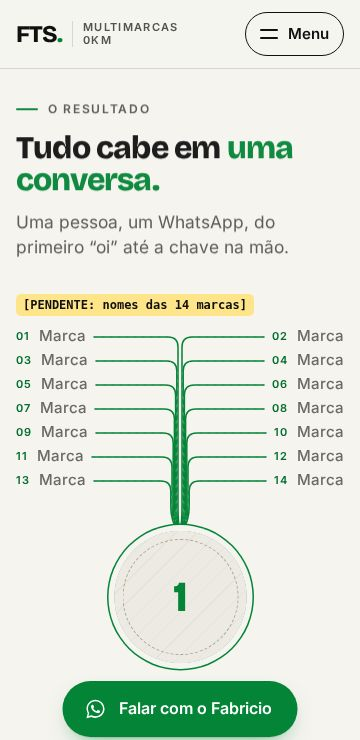
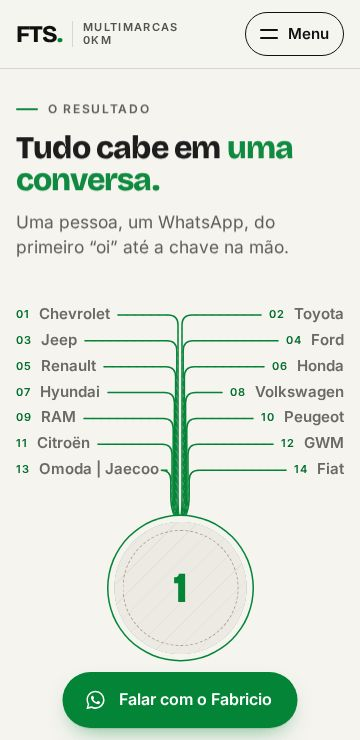
Site FTS: dados confirmados do Fabricio
- WhatsApp, e-mail e Instagram reais em todos os links e no schema
- +20 anos de atuação, 14 marcas (Omoda | Jaecoo como uma, a confirmar)
- Atendimento 'vou até você', entrega na concessionária, usado na troca
- Linhas da assinatura saem alinhadas no desktop
- Pendências e notas atualizadas no README

Claude-Session: https://claude.ai/code/session_01GiJ2UYo2WCLZq6syNtJtXF

Changed region(s): [[0.0306, 0.373, 0.9778, 1.0], [0.4583, 0.777, 0.5194, 0.8392]]

diff --git a/fts-multimarcas/index.html b/fts-multimarcas/index.html
@@ -52,7 +52,9 @@
         { "@type": "City", "name": "Fundão" }, { "@type": "City", "name": "João Neiva" },
         { "@type": "City", "name": "Ibiraçu" }, { "@type": "City", "name": "Vitória" }
       ],
-      "sameAs": ["https://www.instagram.com/fts.multimarcas0km/"],
+      "telephone": "+55-27-99849-0805",
+      "email": "ftsfabricioteixeira@gmail.com",
+      "sameAs": ["https://www.instagram.com/fabricioteixeiradesouza/"],
       "employee": { "@id": "https://SEU-DOMINIO.com.br/#fabricio" }
     },
     {
@@ -580,7 +582,7 @@ button{font:inherit;color:inherit}
       <a href="#marcas">Marcas e região</a>
       <a href="#duvidas">Dúvidas</a>
     </nav>
-    <a class="btn topo-cta" data-wa="encontrar" data-cta href="https://wa.me/?text=Ol%C3%A1%2C%20Fabricio!%20Vim%20pelo%20site%20e%20quero%20encontrar%20meu%20pr%C3%B3ximo%20carro.">
+    <a class="btn topo-cta" data-wa="encontrar" data-cta href="https://wa.me/5527998490805?text=Ol%C3%A1%2C%20Fabricio!%20Vim%20pelo%20site%20e%20quero%20encontrar%20meu%20pr%C3%B3ximo%20carro.">
       <svg class="ic" aria-hidden="true"><use href="#i-wa"/></svg>Falar no WhatsApp
     </a>
     <button class="menu-bt" type="button" aria-expanded="false" aria-controls="menu"><span class="linhas" aria-hidden="true"></span><span class="menu-bt-tx">Menu</span></button>
@@ -597,7 +599,7 @@ button{font:inherit;color:inherit}
     <li><a href="#duvidas">Dúvidas</a></li>
   </ol>
   <div class="menu-rodape">
-    <a class="btn" data-wa="encontrar" href="https://wa.me/?text=Ol%C3%A1%2C%20Fabricio!%20Vim%20pelo%20site%20e%20quero%20encontrar%20meu%20pr%C3%B3ximo%20carro."><svg class="ic" aria-hidden="true"><use href="#i-wa"/></svg>Quero encontrar meu próximo carro</a>
+    <a class="btn" data-wa="encontrar" href="https://wa.me/5527998490805?text=Ol%C3%A1%2C%20Fabricio!%20Vim%20pelo%20site%20e%20quero%20encontrar%20meu%20pr%C3%B3ximo%20carro."><svg class="ic" aria-hidden="true"><use href="#i-wa"/></svg>Quero encontrar meu próximo carro</a>
     <p>Aracruz, Piúma, Fundão, João Neiva, Ibiraçu, Vitória e entorno<span data-atendimento></span></p>
   </div>
 </div>
@@ -614,14 +616,14 @@ button{font:inherit;color:inherit}
     <div class="hero-texto">
       <p class="rotulo hero-eyebrow hero-entra" style="--d:.2s">Carros 0 km · 14 marcas · Aracruz-ES</p>
       <h1 id="h1" class="hero-title">Seu próximo carro, <span class="fim">sem rodar concessionária.</span></h1>
-      <p class="hero-sub hero-entra" style="--d:.5s">Eu sou o Fabricio. Pesquiso o seu carro entre <strong>14 marcas de 0 km</strong> e cuido da compra do começo ao fim. Você fala com uma pessoa só.</p>
+      <p class="hero-sub hero-entra" style="--d:.5s">Eu sou o Fabricio. Pesquiso o seu carro entre <strong>14 marcas de 0 km</strong> e cuido da compra do começo ao fim. Você fala com uma pessoa só, e eu vou até você.</p>
       <div class="hero-acoes hero-entra" style="--d:.6s">
-        <a class="btn" data-wa="encontrar" data-cta href="https://wa.me/?text=Ol%C3%A1%2C%20Fabricio!%20Vim%20pelo%20site%20e%20quero%20encontrar%20meu%20pr%C3%B3ximo%20carro.">
+        <a class="btn" data-wa="encontrar" data-cta href="https://wa.me/5527998490805?text=Ol%C3%A1%2C%20Fabricio!%20Vim%20pelo%20site%20e%20quero%20encontrar%20meu%20pr%C3%B3ximo%20carro.">
           <svg class="ic" aria-hidden="true"><use href="#i-wa"/></svg>Quero encontrar meu próximo carro
         </a>
-        <a class="link-seta" data-wa="condicoes" data-cta href="https://wa.me/?text=Ol%C3%A1%2C%20Fabricio!%20Vim%20pelo%20site%20e%20quero%20saber%20as%20condi%C3%A7%C3%B5es%20para%20um%20carro%200%20km.">Quero saber as condições</a>
+        <a class="link-seta" data-wa="condicoes" data-cta href="https://wa.me/5527998490805?text=Ol%C3%A1%2C%20Fabricio!%20Vim%20pelo%20site%20e%20quero%20saber%20as%20condi%C3%A7%C3%B5es%20para%20um%20carro%200%20km.">Quero saber as condições</a>
       </div>
-      <p class="hero-rodape hero-entra" style="--d:.7s"><span>+1.200 carros entregues</span><span>Aracruz e região</span><span>Também alguns seminovos</span></p>
+      <p class="hero-rodape hero-entra" style="--d:.7s"><span>+1.200 carros entregues</span><span>+20 anos de atuação</span><span>Eu vou até você</span></p>
     </div>
   </div>
 </section>
@@ -636,7 +638,7 @@ button{font:inherit;color:inherit}
     <div class="stats" data-stats>
       <div class="stat stat--destaque rv"><p class="stat-num"><span class="mais">+</span>1.200</p><p class="stat-rot">carros entregues</p></div>
       <div class="stat rv"><p class="stat-num">14</p><p class="stat-rot">marcas de 0 km</p></div>
-      <div class="stat rv"><p class="stat-num"><span class="mais">+</span>10<small>anos</small></p><p class="stat-rot">de atuação <span class="pend">[PENDENTE: confirmar]</span></p></div>
+      <div class="stat rv"><p class="stat-num"><span class="mais">+</span>20<small>anos</small></p><p class="stat-rot">de atuação</p></div>
       <div class="stat rv"><p class="stat-num"><span class="mais">+</span>15<small>anos</small></p><p class="stat-rot">de clientes que compram comigo <span class="pend">[PENDENTE: confirmar]</span></p></div>
     </div>
   </div>
@@ -650,14 +652,14 @@ button{font:inherit;color:inherit}
       <p class="lead">Toque no tipo de carro. O WhatsApp abre com a mensagem pronta — é só enviar.</p>
     </div>
     <ul class="cats" data-cats>
-      <li class="cat-li" style="display:contents"><a class="cat" data-wa="encontrar" data-cat="SUV" href="https://wa.me/?text=Ol%C3%A1%2C%20Fabricio!%20Vim%20pelo%20site%20e%20quero%20encontrar%20meu%20pr%C3%B3ximo%20carro.%20Estou%20procurando%20um%20SUV."><span class="cat-n">01</span><span class="cat-nome">SUV</span><span class="cat-acao">Falar sobre SUV<svg aria-hidden="true"><use href="#i-seta"/></svg></span></a></li>
-      <li style="display:contents"><a class="cat" data-wa="encontrar" data-cat="Picape" href="https://wa.me/?text=Ol%C3%A1%2C%20Fabricio!%20Vim%20pelo%20site%20e%20quero%20encontrar%20meu%20pr%C3%B3ximo%20carro.%20Estou%20procurando%20uma%20picape."><span class="cat-n">02</span><span class="cat-nome">Picape</span><span class="cat-acao">Falar sobre picape<svg aria-hidden="true"><use href="#i-seta"/></svg></span></a></li>
-      <li style="display:contents"><a class="cat" data-wa="encontrar" data-cat="Sedã" href="https://wa.me/?text=Ol%C3%A1%2C%20Fabricio!%20Vim%20pelo%20site%20e%20quero%20encontrar%20meu%20pr%C3%B3ximo%20carro.%20Estou%20procurando%20um%20sed%C3%A3."><span class="cat-n">03</span><span class="cat-nome">Sedã</span><span class="cat-acao">Falar sobre sedã<svg aria-hidden="true"><use href="#i-seta"/></svg></span></a></li>
-      <li style="display:contents"><a class="cat" data-wa="encontrar" data-cat="Hatch" href="https://wa.me/?text=Ol%C3%A1%2C%20Fabricio!%20Vim%20pelo%20site%20e%20quero%20encontrar%20meu%20pr%C3%B3ximo%20carro.%20Estou%20procurando%20um%20hatch."><span class="cat-n">04</span><span class="cat-nome">Hatch</span><span class="cat-acao">Falar sobre hatch<svg aria-hidden="true"><use href="#i-seta"/></svg></span></a></li>
-      <li style="display:contents"><a class="cat" data-wa="encontrar" data-cat="Elétrico/Híbrido" href="https://wa.me/?text=Ol%C3%A1%2C%20Fabricio!%20Vim%20pelo%20site%20e%20quero%20encontrar%20meu%20pr%C3%B3ximo%20carro.%20Estou%20procurando%20um%20el%C3%A9trico%20ou%20h%C3%ADbrido."><span class="cat-n">05</span><span class="cat-nome">Elétrico<br>ou híbrido</span><span class="cat-acao">Falar sobre elétricos<svg aria-hidden="true"><use href="#i-seta"/></svg></span></a></li>
-      <li style="display:contents" data-servico="frotas"><a class="cat cat--escura" data-wa="frota" data-cat="Empresas" href="https://wa.me/?text=Ol%C3%A1%2C%20Fabricio!%20Vim%20pelo%20site%20e%20quero%20falar%20sobre%20a%20frota%20da%20minha%20empresa."><span class="cat-n">06</span><span class="cat-nome">Empresas</span><span class="cat-acao">Falar sobre minha frota<svg aria-hidden="true"><use href="#i-seta"/></svg></span><span class="pend" data-pend-servico>[PENDENTE: confirmar]</span></a></li>
+      <li class="cat-li" style="display:contents"><a class="cat" data-wa="encontrar" data-cat="SUV" href="https://wa.me/5527998490805?text=Ol%C3%A1%2C%20Fabricio!%20Vim%20pelo%20site%20e%20quero%20encontrar%20meu%20pr%C3%B3ximo%20carro.%20Estou%20procurando%20um%20SUV."><span class="cat-n">01</span><span class="cat-nome">SUV</span><span class="cat-acao">Falar sobre SUV<svg aria-hidden="true"><use href="#i-seta"/></svg></span></a></li>
+      <li style="display:contents"><a class="cat" data-wa="encontrar" data-cat="Picape" href="https://wa.me/5527998490805?text=Ol%C3%A1%2C%20Fabricio!%20Vim%20pelo%20site%20e%20quero%20encontrar%20meu%20pr%C3%B3ximo%20carro.%20Estou%20procurando%20uma%20picape."><span class="cat-n">02</span><span class="cat-nome">Picape</span><span class="cat-acao">Falar sobre picape<svg aria-hidden="true"><use href="#i-seta"/></svg></span></a></li>
+      <li style="display:contents"><a class="cat" data-wa="encontrar" data-cat="Sedã" href="https://wa.me/5527998490805?text=Ol%C3%A1%2C%20Fabricio!%20Vim%20pelo%20site%20e%20quero%20encontrar%20meu%20pr%C3%B3ximo%20carro.%20Estou%20procurando%20um%20sed%C3%A3."><span class="cat-n">03</span><span class="cat-nome">Sedã</span><span class="cat-acao">Falar sobre sedã<svg aria-hidden="true"><use href="#i-seta"/></svg></span></a></li>
+      <li style="display:contents"><a class="cat" data-wa="encontrar" data-cat="Hatch" href="https://wa.me/5527998490805?text=Ol%C3%A1%2C%20Fabricio!%20Vim%20pelo%20site%20e%20quero%20encontrar%20meu%20pr%C3%B3ximo%20carro.%20Estou%20procurando%20um%20hatch."><span class="cat-n">04</span><span class="cat-nome">Hatch</span><span class="cat-acao">Falar sobre hatch<svg aria-hidden="true"><use href="#i-seta"/></svg></span></a></li>
+      <li style="display:contents"><a class="cat" data-wa="encontrar" data-cat="Elétrico/Híbrido" href="https://wa.me/5527998490805?text=Ol%C3%A1%2C%20Fabricio!%20Vim%20pelo%20site%20e%20quero%20encontrar%20meu%20pr%C3%B3ximo%20carro.%20Estou%20procurando%20um%20el%C3%A9trico%20ou%20h%C3%ADbrido."><span class="cat-n">05</span><span class="cat-nome">Elétrico<br>ou híbrido</span><span class="cat-acao">Falar sobre elétricos<svg aria-hidden="true"><use href="#i-seta"/></svg></span></a></li>
+      <li style="display:contents" data-servico="frotas"><a class="cat cat--escura" data-wa="frota" data-cat="Empresas" href="https://wa.me/5527998490805?text=Ol%C3%A1%2C%20Fabricio!%20Vim%20pelo%20site%20e%20quero%20falar%20sobre%20a%20frota%20da%20minha%20empresa."><span class="cat-n">06</span><span class="cat-nome">Empresas</span><span class="cat-acao">Falar sobre minha frota<svg aria-hidden="true"><use href="#i-seta"/></svg></span><span class="pend" data-pend-servico>[PENDENTE: confirmar]</span></a></li>
     </ul>
-    <p class="cats-dica rv"><span aria-hidden="true">↔</span> Não sabe ainda? <a class="link-seta" data-wa="encontrar" data-sem-cat href="https://wa.me/?text=Ol%C3%A1%2C%20Fabricio!%20Vim%20pelo%20site%20e%20quero%20encontrar%20meu%20pr%C3%B3ximo%20carro.">Me conta o seu uso</a></p>
+    <p class="cats-dica rv"><span aria-hidden="true">↔</span> Não sabe ainda? <a class="link-seta" data-wa="encontrar" data-sem-cat href="https://wa.me/5527998490805?text=Ol%C3%A1%2C%20Fabricio!%20Vim%20pelo%20site%20e%20quero%20encontrar%20meu%20pr%C3%B3ximo%20carro.">Me conta o seu uso</a></p>
   </div>
 </section>
 
@@ -690,7 +692,7 @@ button{font:inherit;color:inherit}
           <figure class="foto vazia" data-foto="retrato" aria-hidden="true"></figure>
           <span class="cv-mono" aria-hidden="true">1</span>
         </div>
-        <a class="btn" data-wa="encontrar" data-cta href="https://wa.me/?text=Ol%C3%A1%2C%20Fabricio!%20Vim%20pelo%20site%20e%20quero%20encontrar%20meu%20pr%C3%B3ximo%20carro."><svg class="ic" aria-hidden="true"><use href="#i-wa"/></svg>Falar com o Fabricio</a>
+        <a class="btn" data-wa="encontrar" data-cta href="https://wa.me/5527998490805?text=Ol%C3%A1%2C%20Fabricio!%20Vim%20pelo%20site%20e%20quero%20encontrar%20meu%20pr%C3%B3ximo%20carro."><svg class="ic" aria-hidden="true"><use href="#i-wa"/></svg>Falar com o Fabricio</a>
         <p class="cv-no-tx">Mensagem pronta. É só enviar.</p>
       </div>
       <p class="cv-pend" data-pend-only data-pend-marcas><span class="pend">[PENDENTE: nomes das 14 marcas]</span></p>
@@ -709,9 +711,9 @@ button{font:inherit;color:inherit}
     </div>
     <ol class="passos rv">
       <li class="passo"><h3>Você me conta o que procura</h3><p>Pelo WhatsApp: tipo de carro, uso, orçamento, se tem usado para trocar.</p></li>
-      <li class="passo"><h3>Eu pesquiso entre as 14 marcas</h3><p>Comparo modelos e condições para o seu caso, sem você rodar concessionária.</p><span class="pend" data-pend-como>[PENDENTE: como o Fabricio consegue o carro e as condições]</span></li>
+      <li class="passo"><h3>Eu pesquiso entre as 14 marcas</h3><p>Comparo modelos e condições para o seu caso, sem você rodar concessionária.</p><span data-pend-como hidden></span></li>
       <li class="passo"><h3>Você escolhe com calma</h3><p>Recebe as opções e decide com quem conhece todas as marcas do seu lado.</p></li>
-      <li class="passo"><h3>Seu 0 km chega até você</h3><p>Eu acompanho a compra até a entrega.</p><span class="pend">[PENDENTE: etapas reais — documentação, financiamento, local da entrega]</span></li>
+      <li class="passo"><h3>Eu te levo para buscar</h3><p>A entrega é na concessionária da marca. Eu te busco e te levo até lá.</p></li>
     </ol>
   </div>
 </section>
@@ -753,19 +755,19 @@ button{font:inherit;color:inherit}
       <p class="rotulo rv">Quem cuida da sua compra</p>
       <h2 id="t-quem" class="rv" style="margin-top:14px">Prazer, Fabricio Teixeira.</h2>
       <div class="quem-corpo rv">
-        <p>Sou consultor de carros 0 km de 14 marcas, aqui em Aracruz. Também trabalho com alguns seminovos.</p>
+        <p>Sou consultor de carros 0 km de 14 marcas, aqui em Aracruz, há mais de 20 anos. Também trabalho com alguns seminovos.</p>
         <p>Em vez de você conversar com um vendedor por concessionária, conversa comigo. Eu encontro, comparo e cuido de tudo até o carro chegar.</p>
         <p data-bio><span class="pend">[PENDENTE: 2–3 frases do Fabricio sobre a própria história, com as palavras dele]</span></p>
       </div>
       <dl class="quem-fatos rv">
         <div><dt>Carros entregues</dt><dd>+1.200</dd></div>
         <div><dt>Marcas</dt><dd>14</dd></div>
-        <div><dt>Base</dt><dd>Aracruz-ES</dd></div>
-        <div><dt>Empresa</dt><dd>CNPJ ativo desde 2018</dd></div>
+        <div><dt>Atuação</dt><dd>+20 anos</dd></div>
+        <div><dt>Atendimento</dt><dd>Vou até você</dd></div>
       </dl>
       <div class="quem-acoes rv">
-        <a class="btn btn--escuro" data-wa="encontrar" data-cta href="https://wa.me/?text=Ol%C3%A1%2C%20Fabricio!%20Vim%20pelo%20site%20e%20quero%20encontrar%20meu%20pr%C3%B3ximo%20carro."><svg class="ic" aria-hidden="true"><use href="#i-wa"/></svg>Falar com o Fabricio</a>
-        <a class="link-seta" data-instagram href="https://www.instagram.com/fts.multimarcas0km/" rel="noopener" target="_blank">@fts.multimarcas0km</a>
+        <a class="btn btn--escuro" data-wa="encontrar" data-cta href="https://wa.me/5527998490805?text=Ol%C3%A1%2C%20Fabricio!%20Vim%20pelo%20site%20e%20quero%20encontrar%20meu%20pr%C3%B3ximo%20carro."><svg class="ic" aria-hidden="true"><use href="#i-wa"/></svg>Falar com o Fabricio</a>
+        <a class="link-seta" data-instagram href="https://www.instagram.com/fabricioteixeiradesouza/" rel="noopener" target="_blank">@fabricioteixeiradesouza</a>
       </div>
     </div>
   </div>
@@ -803,7 +805,7 @@ button{font:inherit;color:inherit}
     <h2 id="t-empresas" class="rv">Renovar a frota, com uma pessoa só.</h2>
     <div class="empresas-tx rv">
       <p>Carros de marcas diferentes para a sua empresa, organizados por um único consultor.</p>
-      <a class="btn" data-wa="frota" data-cta href="https://wa.me/?text=Ol%C3%A1%2C%20Fabricio!%20Vim%20pelo%20site%20e%20quero%20falar%20sobre%20a%20frota%20da%20minha%20empresa."><svg class="ic" aria-hidden="true"><use href="#i-wa"/></svg>Falar sobre minha frota</a>
+      <a class="btn" data-wa="frota" data-cta href="https://wa.me/5527998490805?text=Ol%C3%A1%2C%20Fabricio!%20Vim%20pelo%20site%20e%20quero%20falar%20sobre%20a%20frota%20da%20minha%20empresa."><svg class="ic" aria-hidden="true"><use href="#i-wa"/></svg>Falar sobre minha frota</a>
     </div>
   </div>
 </section>
@@ -814,10 +816,11 @@ button{font:inherit;color:inherit}
     <div class="faq-top rv"><p class="rotulo">Dúvidas</p><h2 id="t-faq" class="h2" style="margin-top:14px">Perguntas rápidas.</h2></div>
     <div class="faq-lista rv">
       <details><summary>Você vende só carro 0 km?<i aria-hidden="true"></i></summary><p class="resp">Principalmente 0 km, de 14 marcas. Também trabalho com alguns seminovos — é só perguntar.</p></details>
-      <details><summary>Quais marcas você atende?<i aria-hidden="true"></i></summary><p class="resp" data-faq-marcas>São 14 marcas. <span class="pend">[PENDENTE: lista das 14 marcas]</span></p></details>
+      <details><summary>Quais marcas você atende?<i aria-hidden="true"></i></summary><p class="resp" data-faq-marcas>Atendo 14 marcas: Chevrolet, Toyota, Jeep, Ford, Renault, Honda, Hyundai, Volkswagen, RAM, Peugeot, Citroën, GWM, Omoda | Jaecoo e Fiat.</p></details>
+      <details><summary>Preciso ir até você?<i aria-hidden="true"></i></summary><p class="resp">Não. Eu vou até você. E no dia da entrega, te busco e te levo até a concessionária da marca.</p></details>
       <details><summary>Quais cidades você atende?<i aria-hidden="true"></i></summary><p class="resp">Aracruz, Piúma, Fundão, João Neiva, Ibiraçu, Vitória e entorno, no Espírito Santo.</p></details>
       <details><summary>A FTS é uma empresa registrada?<i aria-hidden="true"></i></summary><p class="resp">Sim. FTS Multimarcas e Serviços Ltda, CNPJ 29.464.051/0001-56, ativa desde 2018, em Aracruz-ES.</p></details>
-      <details data-servico="avaliacaoUsado"><summary>Você pega meu usado na troca?<i aria-hidden="true"></i></summary><p class="resp" data-resp-usado><span class="pend">[PENDENTE: confirmar se avalia o usado na troca e como]</span></p></details>
+      <details data-servico="avaliacaoUsado"><summary>Você pega meu usado na troca?<i aria-hidden="true"></i></summary><p class="resp" data-resp-usado>Sim, o seu usado pode entrar na negociação. Se eu mesmo não ficar com ele, encontro quem compre.</p></details>
       <details data-servico="financiamento"><summary>Dá para financiar?<i aria-hidden="true"></i></summary><p class="resp" data-resp-fin><span class="pend">[PENDENTE: confirmar se ajuda com financiamento e como]</span></p></details>
       <details><summary>Como eu começo?<i aria-hidden="true"></i></summary><p class="resp">Toque em qualquer botão verde. O WhatsApp abre com uma mensagem pronta dizendo o que você procura — é só enviar. <span data-atendimento-faq></span></p></details>
     </div>
@@ -843,12 +846,12 @@ button{font:inherit;color:inherit}
         <label class="chip"><input type="radio" name="cat" value="Elétrico/Híbrido"><span>Elétrico ou híbrido</span></label>
       </fieldset>
       <div class="intencoes">
-        <a class="intencao" data-wa="encontrar" data-cta href="https://wa.me/?text=Ol%C3%A1%2C%20Fabricio!%20Vim%20pelo%20site%20e%20quero%20encontrar%20meu%20pr%C3%B3ximo%20carro."><span><b>Quero encontrar meu próximo carro</b><small>Você pesquisa, eu comparo entre as marcas</small></span><span class="ic-wa"><svg aria-hidden="true"><use href="#i-wa"/></svg></span></a>
-        <a class="intencao" data-wa="condicoes" data-cta href="https://wa.me/?text=Ol%C3%A1%2C%20Fabricio!%20Vim%20pelo%20site%20e%20quero%20saber%20as%20condi%C3%A7%C3%B5es%20para%20um%20carro%200%20km."><span><b>Quero saber as condições</b><small>Para o carro que você já tem em mente</small></span><span class="ic-wa"><svg aria-hidden="true"><use href="#i-wa"/></svg></span></a>
-        <a class="intencao" data-wa="usado" data-cta data-servico="avaliacaoUsado" href="https://wa.me/?text=Ol%C3%A1%2C%20Fabricio!%20Vim%20pelo%20site%20e%20quero%20avaliar%20meu%20usado%20na%20troca%20por%20um%20carro%200%20km.%20Meu%20carro%20atual%20%C3%A9%3A%20"><span><b>Quero avaliar meu usado</b><small>Para dar de entrada no 0 km <span class="pend" data-pend-servico>[PENDENTE: confirmar]</span></small></span><span class="ic-wa"><svg aria-hidden="true"><use href="#i-wa"/></svg></span></a>
-        <a class="intencao" data-wa="frota" data-cta data-servico="frotas" href="https://wa.me/?text=Ol%C3%A1%2C%20Fabricio!%20Vim%20pelo%20site%20e%20quero%20falar%20sobre%20a%20frota%20da%20minha%20empresa."><span><b>Falar sobre minha frota</b><small>Para empresas <span class="pend" data-pend-servico>[PENDENTE: confirmar]</span></small></span><span class="ic-wa"><svg aria-hidden="true"><use href="#i-wa"/></svg></span></a>
+        <a class="intencao" data-wa="encontrar" data-cta href="https://wa.me/5527998490805?text=Ol%C3%A1%2C%20Fabricio!%20Vim%20pelo%20site%20e%20quero%20encontrar%20meu%20pr%C3%B3ximo%20carro."><span><b>Quero encontrar meu próximo carro</b><small>Você pesquisa, eu comparo entre as marcas</small></span><span class="ic-wa"><svg aria-hidden="true"><use href="#i-wa"/></svg></span></a>
+        <a class="intencao" data-wa="condicoes" data-cta href="https://wa.me/5527998490805?text=Ol%C3%A1%2C%20Fabricio!%20Vim%20pelo%20site%20e%20quero%20saber%20as%20condi%C3%A7%C3%B5es%20para%20um%20carro%200%20km."><span><b>Quero saber as condições</b><small>Para o carro que você já tem em mente</small></span><span class="ic-wa"><svg aria-hidden="true"><use href="#i-wa"/></svg></span></a>
+        <a class="intencao" data-wa="usado" data-cta data-servico="avaliacaoUsado" href="https://wa.me/5527998490805?text=Ol%C3%A1%2C%20Fabricio!%20Vim%20pelo%20site%20e%20quero%20avaliar%20meu%20usado%20na%20troca%20por%20um%20carro%200%20km.%20Meu%20carro%20atual%20%C3%A9%3A%20"><span><b>Quero avaliar meu usado</b><small>Para dar de entrada no 0 km</small></span><span class="ic-wa"><svg aria-hidden="true"><use href="#i-wa"/></svg></span></a>
+        <a class="intencao" data-wa="frota" data-cta data-servico="frotas" href="https://wa.me/5527998490805?text=Ol%C3%A1%2C%20Fabricio!%20Vim%20pelo%20site%20e%20quero%20falar%20sobre%20a%20frota%20da%20minha%20empresa."><span><b>Falar sobre minha frota</b><small>Para empresas <span class="pend" data-pend-servico>[PENDENTE: confirmar]</span></small></span><span class="ic-wa"><svg aria-hidden="true"><use href="#i-wa"/></svg></span></a>
       </div>
-      <p class="final-nota">Cada opção abre o WhatsApp do Fabricio com a mensagem escrita. Você revisa e envia. <span class="pend" data-pend-wa>[PENDENTE: número de WhatsApp — sem ele, o WhatsApp pede para escolher o contato]</span></p>
+      <p class="final-nota">Cada opção abre o WhatsApp do Fabricio com a mensagem escrita. Você revisa e envia.</p>
     </div>
   </div>
 </section>
@@ -864,10 +867,10 @@ button{font:inherit;color:inherit}
       <div class="rod-col">
         <h2>Contato</h2>
         <ul>
-          <li><a data-wa="encontrar" href="https://wa.me/?text=Ol%C3%A1%2C%20Fabricio!%20Vim%20pelo%20site%20e%20quero%20encontrar%20meu%20pr%C3%B3ximo%20carro.">WhatsApp <span data-wa-numero style="margin-left:6px"></span></a></li>
-          <li data-email><span class="pend">[PENDENTE: e-mail]</span></li>
-          <li><a data-instagram href="https://www.instagram.com/fts.multimarcas0km/" rel="noopener" target="_blank">Instagram @fts.multimarcas0km</a></li>
-          <li data-atendimento-rod><span class="pend">[PENDENTE: dias e horários de atendimento]</span></li>
+          <li><a data-wa="encontrar" href="https://wa.me/5527998490805?text=Ol%C3%A1%2C%20Fabricio!%20Vim%20pelo%20site%20e%20quero%20encontrar%20meu%20pr%C3%B3ximo%20carro.">WhatsApp <span data-wa-numero style="margin-left:6px">(27) 99849-0805</span></a></li>
+          <li data-email><a href="mailto:ftsfabricioteixeira@gmail.com">ftsfabricioteixeira@gmail.com</a></li>
+          <li><a data-instagram href="https://www.instagram.com/fabricioteixeiradesouza/" rel="noopener" target="_blank">Instagram @fabricioteixeiradesouza</a></li>
+          <li>Facebook: Fabricio Teixeira</li>
         </ul>
       </div>
       <div class="rod-col">
@@ -890,7 +893,7 @@ button{font:inherit;color:inherit}
   </div>
 </footer>
 
-<a class="wa-fixo" data-wa="encontrar" data-wa-fixo href="https://wa.me/?text=Ol%C3%A1%2C%20Fabricio!%20Vim%20pelo%20site%20e%20quero%20encontrar%20meu%20pr%C3%B3ximo%20carro." aria-label="Falar com o Fabricio no WhatsApp" tabindex="-1">
+<a class="wa-fixo" data-wa="encontrar" data-wa-fixo href="https://wa.me/5527998490805?text=Ol%C3%A1%2C%20Fabricio!%20Vim%20pelo%20site%20e%20quero%20encontrar%20meu%20pr%C3%B3ximo%20carro." aria-label="Falar com o Fabricio no WhatsApp" tabindex="-1">
   <svg aria-hidden="true"><use href="#i-wa"/></svg><span class="wa-tx">Falar com o Fabricio</span>
 </a>
 
@@ -915,11 +918,11 @@ const CONFIG = {
   // WhatsApp do Fabricio: só números, com 55 + DDD. Ex.: '5527999999999'.
   // Enquanto estiver vazio, os botões abrem o WhatsApp com a mensagem pronta,
   // mas o visitante precisa escolher o contato (NÃO publique assim).
-  whatsapp: '',
-  whatsappExibicao: '',            // como o número aparece escrito. Ex.: '(27) 99999-9999'
-  email: '',                        // ex.: 'contato@...'
-  atendimento: '',                  // ex.: 'Seg. a sex., 8h às 18h · Sáb., 8h às 12h'
-  instagram: 'fts.multimarcas0km',  // sem @
+  whatsapp: '5527998490805',
+  whatsappExibicao: '(27) 99849-0805',          // como o número aparece escrito. Ex.: '(27) 99999-9999'
+  email: 'ftsfabricioteixeira@gmail.com',
+  atendimento: null,                // null = não exibir (autônomo, atende praticamente o dia todo). Texto = exibe.
+  instagram: 'fabricioteixeiradesouza',  // sem @ (trocar quando o perfil profissional estiver ativo)
   logo: '',                         // ex.: 'assets/logo.svg' (vazio = usa a marca em texto)
 
   // Números oficiais. Use exatamente como o Fabricio confirmou; nunca arredonde.
@@ -927,22 +930,22 @@ const CONFIG = {
   numeros: [
     { valor: 1200, mais: true,  unidade: '',     rotulo: 'carros entregues',                confirmado: true,  destaque: true },
     { valor: 14,   mais: false, unidade: '',     rotulo: 'marcas de 0 km',                  confirmado: true },
-    { valor: 10,   mais: true,  unidade: 'anos', rotulo: 'de atuação',                      confirmado: false },
+    { valor: 20,   mais: true,  unidade: 'anos', rotulo: 'de atuação',                      confirmado: true },
     { valor: 15,   mais: true,  unidade: 'anos', rotulo: 'de clientes que compram comigo',  confirmado: false },
   ],
 
   // As 14 marcas, na ordem em que devem aparecer. Ex.: ['Marca A', 'Marca B', ...]
-  marcas: [],
+  marcas: ['Chevrolet', 'Toyota', 'Jeep', 'Ford', 'Renault', 'Honda', 'Hyundai', 'Volkswagen', 'RAM', 'Peugeot', 'Citroën', 'GWM', 'Omoda | Jaecoo', 'Fiat'],
 
   // Serviços: true = confirmado, false = não oferece (some do site), null = ainda não confirmado.
   servicos: {
-    avaliacaoUsado: null, // "Quero avaliar meu usado"
+    avaliacaoUsado: true, // "Quero avaliar meu usado"
     frotas: null,         // seção Empresas, categoria Empresas e "Falar sobre minha frota"
     financiamento: null,  // pergunta sobre financiamento
   },
   // Respostas reais para as perguntas (só preencha com o que o Fabricio confirmar).
-  respostas: { avaliacaoUsado: '', financiamento: '' },
-  comoFunciona: '',  // texto curto confirmado sobre como ele consegue o carro e as condições
+  respostas: { avaliacaoUsado: 'Sim, o seu usado pode entrar na negociação. Se eu mesmo não ficar com ele, encontro quem compre.', financiamento: '' },
+  comoFunciona: 'Trabalho em parceria com as marcas. Comparo modelos e condições para o seu caso, sem você rodar concessionária.',  // texto curto confirmado sobre como ele consegue o carro e as condições
   bio: '',           // 2–3 frases do Fabricio, com as palavras dele
 
   // Fotos reais (WebP). Rode tools/tratar-fotos.mjs para gerar os recortes com o tratamento de cor.
@@ -981,16 +984,15 @@ const CONFIG = {
   if (!CONFIG.fotos.video.mp4) addPend('Vídeo curto de uma entrega (opcional)', 'Sem impacto: o topo usa a foto.');
   if (!CONFIG.logo) addPend('Logo em /assets/logo.svg', 'O site usa a marca em texto “FTS.”.');
   if (CONFIG.marcas.length !== 14) addPend('Nomes das 14 marcas', 'A assinatura “14 → 1” e a lista de marcas aparecem sem nomes.');
-  CONFIG.numeros.filter(n => !n.confirmado).forEach(n => addPend(`Confirmar número: +${n.valor} ${n.unidade} ${n.rotulo}`, '“+10 anos de atuação” e “clientes há +15 anos” se contradizem. Na publicação, os não confirmados somem.'));
+  CONFIG.numeros.filter(n => !n.confirmado).forEach(n => addPend(`Confirmar número: +${n.valor} ${n.unidade} ${n.rotulo}`, 'Na publicação, os números não confirmados somem.'));
   if (!CONFIG.comoFunciona) addPend('Como o Fabricio consegue o carro e as condições', 'O passo 2 de “Como funciona” fica genérico.');
   Object.entries(CONFIG.servicos).forEach(([k, v]) => { if (v === null) addPend(`Confirmar serviço: ${({avaliacaoUsado:'avaliação do usado na troca',frotas:'venda para empresas e frotas',financiamento:'financiamento'})[k]}`, 'Na publicação, o que não for confirmado some do site.'); });
   if (!CONFIG.email) addPend('E-mail de contato', 'O rodapé fica sem e-mail.');
-  if (!CONFIG.atendimento) addPend('Dias e horários de atendimento', 'O visitante não sabe quando será respondido.');
+  if (CONFIG.atendimento === '') addPend('Dias e horários de atendimento', 'O visitante não sabe quando será respondido.');
   if (!CONFIG.depoimentos.length) addPend('3–5 depoimentos reais com nome e autorização', 'A seção de depoimentos não aparece.');
   if (!CONFIG.bio) addPend('2–3 frases do Fabricio sobre a própria história', '“Quem é” fica só com os fatos.');
-  addPend('Domínio do site (trocar SEU-DOMINIO.com.br no <head>)', 'Compartilhamento e Google usam endereço provisório.');
-  addPend('Endereço da Loja B recebe clientes?', 'Hoje aparece só como dado do CNPJ no rodapé.');
-  addPend('Handle final do Instagram: fts.multimarcas0km ou fabricioteixeira.carros?', 'O site usa @fts.multimarcas0km; troque em CONFIG.instagram.');
+  addPend('Domínio do site (trocar SEU-DOMINIO.com.br no topo do index.html)', 'Compartilhamento e Google usam endereço provisório.');
+  addPend('Confirmar: Omoda e Jaecoo contam como uma marca só? (o adesivo mostra 15 logos)', 'Se forem 15, o número “14 marcas” muda no site todo.');
   $$('[data-n-pend]').forEach(e => e.textContent = pend.length + ' itens');
   const lista = $('[data-pend-lista]');
   if (lista) lista.innerHTML = pend.map(p => `<li><strong>${p.o}</strong><small>${p.impacto}</small></li>`).join('');
@@ -1026,7 +1028,6 @@ const CONFIG = {
   /* ---------- Contato, marca, instagram ---------- */
   if (CONFIG.email) { const li = $('[data-email]'); li.innerHTML = `<a href="mailto:${CONFIG.email}">${CONFIG.email}</a>`; }
   if (CONFIG.atendimento) {
-    const r = $('[data-atendimento-rod]'); if (r) r.textContent = 'Atendimento: ' + CONFIG.atendimento;
     $$('[data-atendimento]').forEach(e => e.textContent = ' · ' + CONFIG.atendimento);
     const f = $('[data-atendimento-faq]'); if (f) f.textContent = 'Atendimento: ' + CONFIG.atendimento + '.';
   }
@@ -1201,7 +1202,8 @@ const CONFIG = {
     } else {
       topoMarcas = Math.max(tb + 36, H * .36);
       const bot = H - 56, rowH = Math.min(40, (bot - topoMarcas) / 14);
-      itens.forEach((li, i) => { const x = g, y = topoMarcas + i * rowH; pts.push({ x, y, sx: x + li.offsetWidth + 14, sy: y + 10 }); });
+      const col = Math.max(...itens.map(li => li.offsetWidth)) + 18;
+      itens.forEach((li, i) => { const x = g, y = topoMarcas + i * rowH; pts.push({ x, y, sx: x + col, sy: y + 10 }); });
       ex = Math.min(W * .74, W - g - noW / 2); ey = Math.min(H * .5, H - noH - 40 + r);
       if (pendCv) { pendCv.style.setProperty('--pt', 'auto'); pendCv.style.setProperty('--pb', '18px'); }
     }

diff --git a/fts-multimarcas/README.md b/fts-multimarcas/README.md
@@ -137,7 +137,7 @@ Verificado sem erros de console, JSON-LD válido, 20 links de WhatsApp com a men
 | 1. Benefício em 5 s | 9 | O título abre pelo benefício, "14 marcas" vem como prova e o CTA fica visível sem rolar em 390×844. |
 | 2. Presença humana real | **5 → 9 com as fotos** | A estrutura está pronta, mas ainda não há nenhuma foto real do Fabricio. É a nota que trava a aprovação. |
 | 3. Assinatura 14 → 1 | 9 | Conduzida pela rolagem, com composição própria no celular e terminando no botão. Sem os nomes das marcas, perde força. |
-| 4. WhatsApp em ≤ 2 toques | **8 → 10 com o número** | 1 toque com mensagem pronta em 20 botões. Sem o número, o WhatsApp pede para escolher o contato. |
+| 4. WhatsApp em ≤ 2 toques | 10 | 1 toque, 20 botões, número real e mensagem pronta por intenção e categoria. |
 | 5. Ritmo e composição | 9 | Alterna papel, preto e verde, com cartões desnivelados, galeria alternada e grades assimétricas. Nenhum "título + 3 cards". |
 | 6. Mobile próprio | 9 | Hero empilhado, lista deslizável, feixe central na assinatura, menu circular, galeria em tela cheia e botão fixo inteligente. |
 | 7. Motion | 9 | Abertura em ~1,1 s, cada movimento com função e versão reduced-motion completa. |
@@ -145,29 +145,29 @@ Verificado sem erros de console, JSON-LD válido, 20 links de WhatsApp com a men
 | 9. Performance e acessibilidade | 9 | Sem bibliotecas, contraste AA medido, teclado, um h1 e conteúdo legível sem JS. |
 | 10. Veracidade | 10 | Nenhum número, depoimento, preço, parceiro ou serviço inventado. O não confirmado aparece marcado ou some na publicação. |
 
-**Não publicar ainda.** Os critérios 2 e 4 só chegam a 8+ com as fotos e o número, e isso não se resolve no código.
+**Não publicar ainda.** O critério 2 só chega a 8+ com as fotos reais do Fabricio.
 
 ## 11. Pendências (o que falta e o impacto)
 
+Já confirmados: WhatsApp (27) 99849-0805, e-mail, +20 anos de atuação, as 14 marcas, "vou até você", parceria com as marcas, entrega na concessionária (ele leva o cliente), usado entra na troca, Instagram @fabricioteixeiradesouza. Horário não é exibido (autônomo).
+
 | # | Falta | Impacto |
 |---|---|---|
-| 1 | **Número de WhatsApp com DDD** | **Bloqueia a publicação.** Sem ele, os botões abrem o WhatsApp pedindo para escolher um contato. |
-| 2 | **Foto principal do Fabricio** (meio corpo, luz natural, ao lado de um carro) | O hero fica sem rosto, e é a peça que mais gera confiança. |
-| 3 | Recorte quadrado do rosto | O fim da assinatura mostra "1" em vez do Fabricio. |
-| 4 | Foto em ação (com cliente ou entregando a chave) | "Quem é" fica sem prova visual. |
-| 5 | 10–15 fotos de entregas com autorização por escrito | Sem elas, a galeria não aparece na versão publicada. |
-| 6 | Vídeo de 6–12 s (opcional) | Nenhum. O hero usa a foto. |
-| 7 | Logo em SVG | Usa a marca em texto "FTS.". |
-| 8 | Nomes das 14 marcas | A assinatura e a lista aparecem sem nomes, e a FAQ de marcas fica incompleta. |
-| 9 | **Confirmar "+10 anos de atuação" e "clientes há +15 anos"** | Os dois números se contradizem. Até confirmar, ficam marcados e somem na publicação. |
-| 10 | Como o Fabricio consegue o carro e as condições | O passo 2 de "Como funciona" fica genérico. |
-| 11 | Confirmar serviços: avaliação do usado, frotas e financiamento | O que não for confirmado some (inclusive a seção Empresas e 2 dos 4 CTAs). |
-| 12 | E-mail | O rodapé fica sem e-mail. |
-| 13 | Dias e horários de atendimento | O visitante não sabe quando será respondido. |
-| 14 | 3–5 depoimentos reais com nome e autorização | A seção não aparece (por regra). |
-| 15 | 2–3 frases do Fabricio sobre a própria história | "Quem é" fica só com os fatos. |
-| 16 | Domínio | Canonical, Open Graph e schema usam `SEU-DOMINIO.com.br`. |
-| 17 | A Loja B do endereço do CNPJ recebe clientes? | Hoje o endereço aparece só como dado legal no rodapé e no schema. |
-| 18 | Handle do Instagram: `fts.multimarcas0km` ou `fabricioteixeira.carros`? | O site usa `fts.multimarcas0km` (basta trocar no CONFIG). |
+| 1 | **Foto principal do Fabricio** (meio corpo, luz natural, ao lado de um carro) | O hero fica sem rosto, e é a peça que mais gera confiança. |
+| 2 | Recorte quadrado do rosto | O fim da assinatura mostra "1" em vez do Fabricio. |
+| 3 | Foto em ação (com cliente ou entregando a chave) | "Quem é" fica sem prova visual. |
+| 4 | 10–15 fotos de entregas com autorização | Sem elas, a galeria não aparece na versão publicada. |
+| 5 | Vídeo de 6–12 s (opcional) | Nenhum. |
+| 6 | Logo em SVG/PNG | Usa a marca em texto "FTS.". |
+| 7 | Omoda e Jaecoo contam como uma marca? (o adesivo tem 15 logos) | Se forem 15, "14 marcas" muda no site todo. |
+| 8 | Há quantos anos o cliente mais antigo compra com ele? | Some da publicação até confirmar. |
+| 9 | "+1.200 carros entregues" está certo? | É o número em destaque. |
+| 10 | Vende para empresas e frotas? | Se não, some a seção Empresas e um CTA. |
+| 11 | Ajuda com financiamento? | Se não, a pergunta some. |
+| 12 | Seminovos: com que frequência? | Hoje o texto diz "alguns seminovos". |
+| 13 | 3–5 depoimentos reais com nome e autorização | A seção não aparece. |
+| 14 | 2–3 frases do Fabricio sobre a história dele | "Quem é" fica só com os fatos. |
+| 15 | Domínio | Canonical, Open Graph e schema usam `SEU-DOMINIO.com.br`. |
+| 16 | Link do Facebook | Hoje aparece só o nome, sem link. |
 
 Fatos usados do registro público: razão social, nome fantasia, CNPJ, abertura em 2018, endereço. O site não usa capital social, a data de entrada do sócio nem as atividades do CNPJ.
